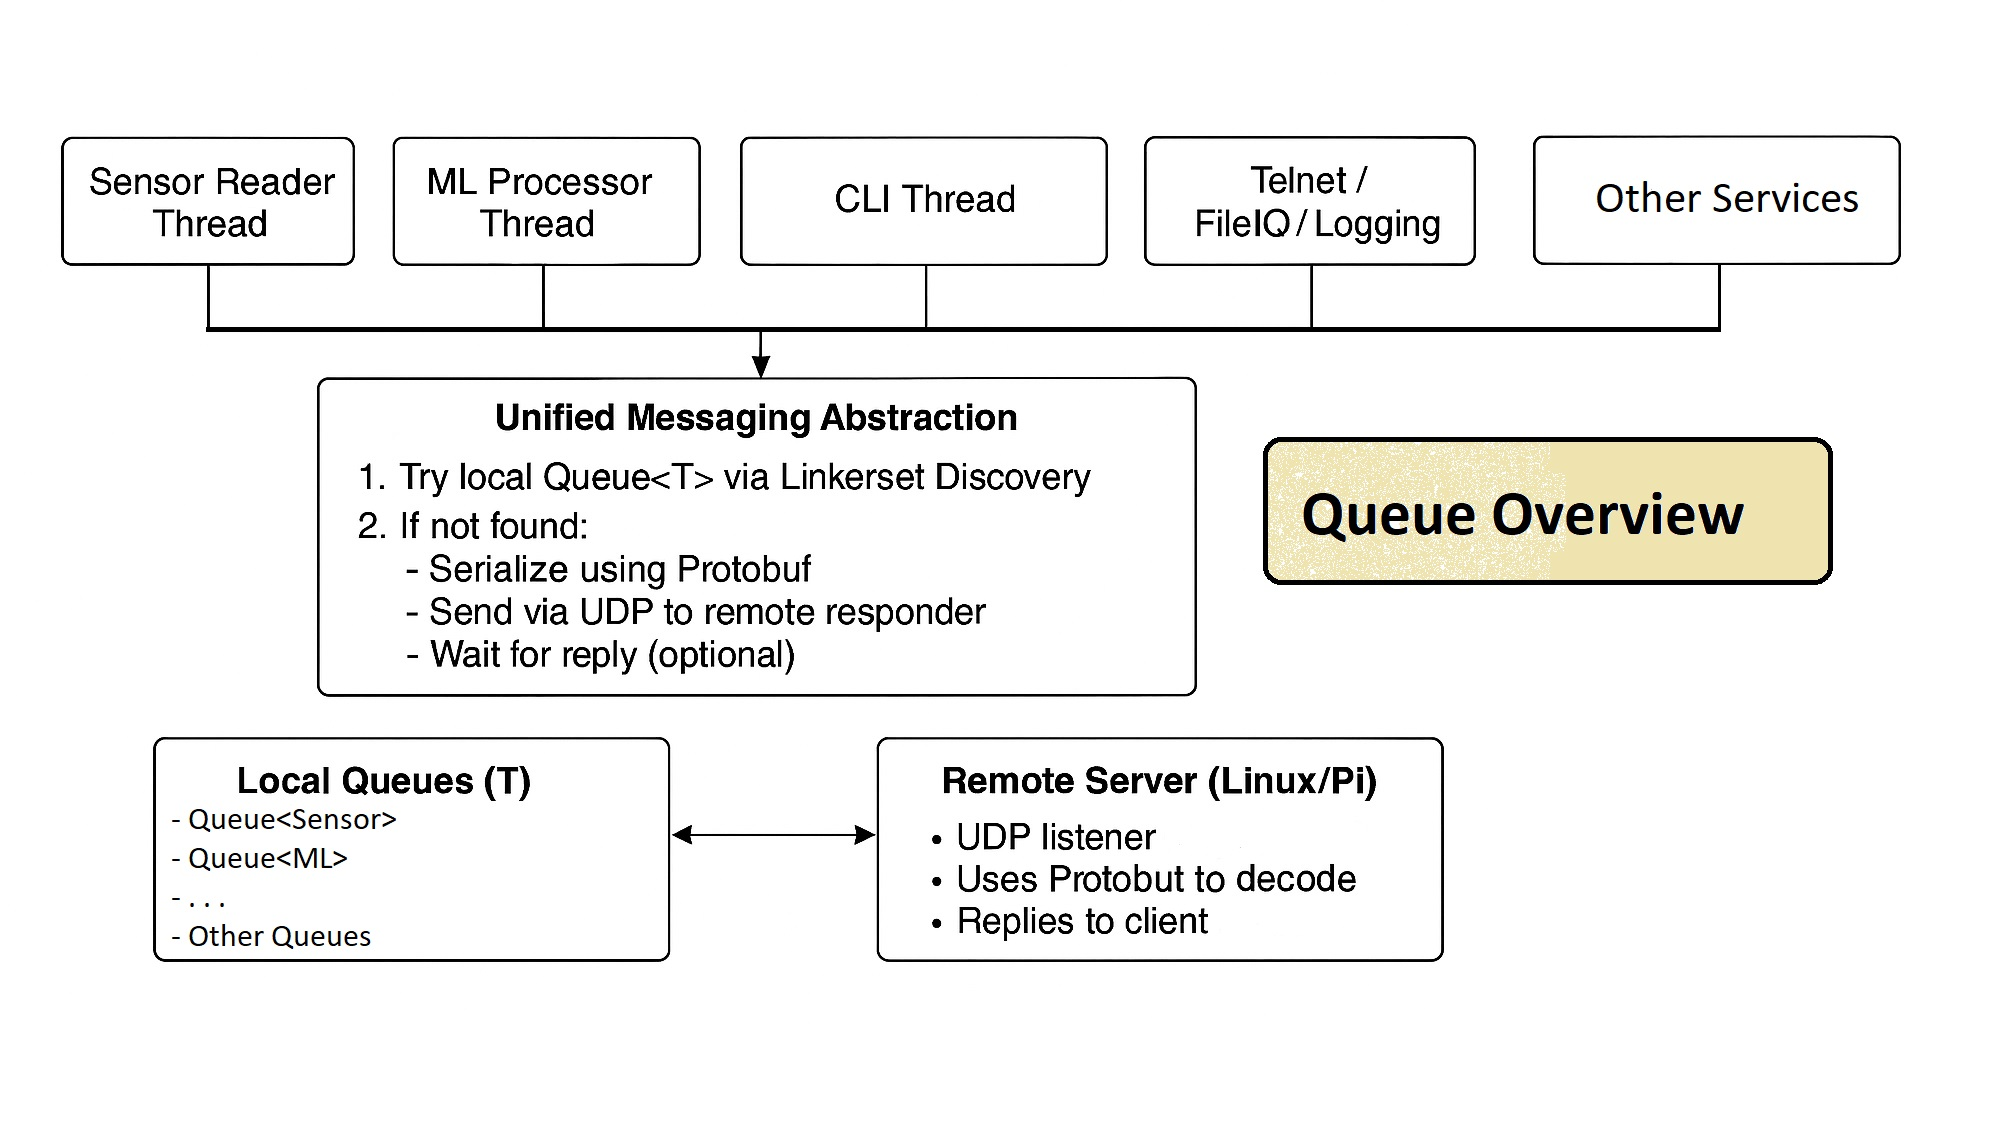
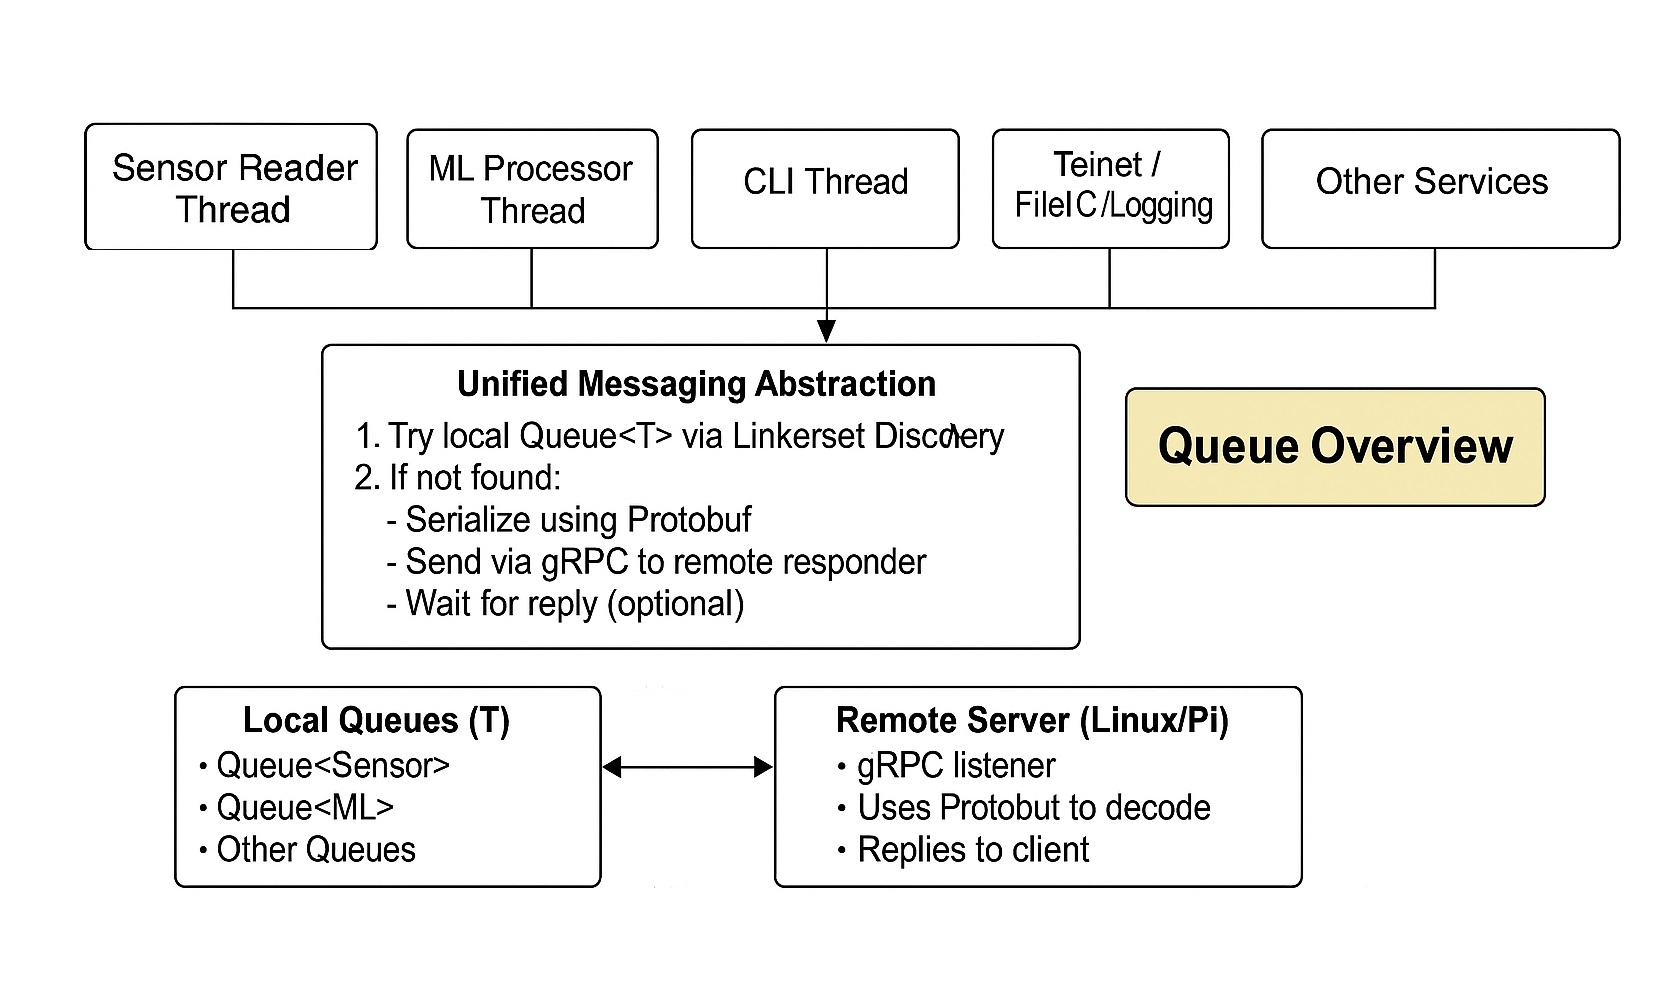
readme update

diff --git a/README.md b/README.md
@@ -22,8 +22,7 @@ This image outlines the architecture of the user-space application:
 ---
 
 ## 🛰 Queue Overview
-
-The following diagram illustrates the integration of local and remote message queues using a unified messaging abstraction. It demonstrates how services send messages to `Queue<T>` objects discovered via Linkersets, with automatic fallback to remote servers using Protobuf serialization and UDP if no local handler is found.
+This project uses a unified messaging abstraction where services send messages to `Queue<T>` discovered via Linkersets. If a local handler `Queue<T>` is not found, the system automatically falls back to using **Protobuf serialization and gRPC** to communicate with a remote server.
 
 ![Queue Overview](Queue_Overview_UserSpace.jpg)
 
@@ -34,6 +33,22 @@ The following diagram illustrates the integration of local and remote message qu
 This project uses [Protocol Buffers](https://developers.google.com/protocol-buffers) for message serialization between local and remote services. If a local queue is not found for a message, the system serializes it via Protobuf and sends it to a remote responder using UDP.
 
 📂 Protobuf: [`protobuf/`](UserSpace/Application/protobuf)
+
+---
+
+## 🔗 gRPC Integration
+
+This project integrates [gRPC](https://grpc.io/) as a fallback communication mechanism for service messages when no local queue is found. Messages are serialized using **Protocol Buffers**, and forwarded to a remote server over **gRPC** for further handling or execution.
+
+Local services use `Queue<T>` with automatic discovery via **Linkersets**
+
+When a queue is not available locally, the message is serialized using **Protobuf**
+
+The serialized message is sent over **gRPC** to a remote server, which deserializes and handles it
+
+📂 Protobuf definitions used for gRPC communication: [`protobuf/`](UserSpace/Application/protobuf)
+
+This design allows seamless scaling from single-device embedded systems to distributed architectures involving multiple remote processing nodes.
 
 ---
 
